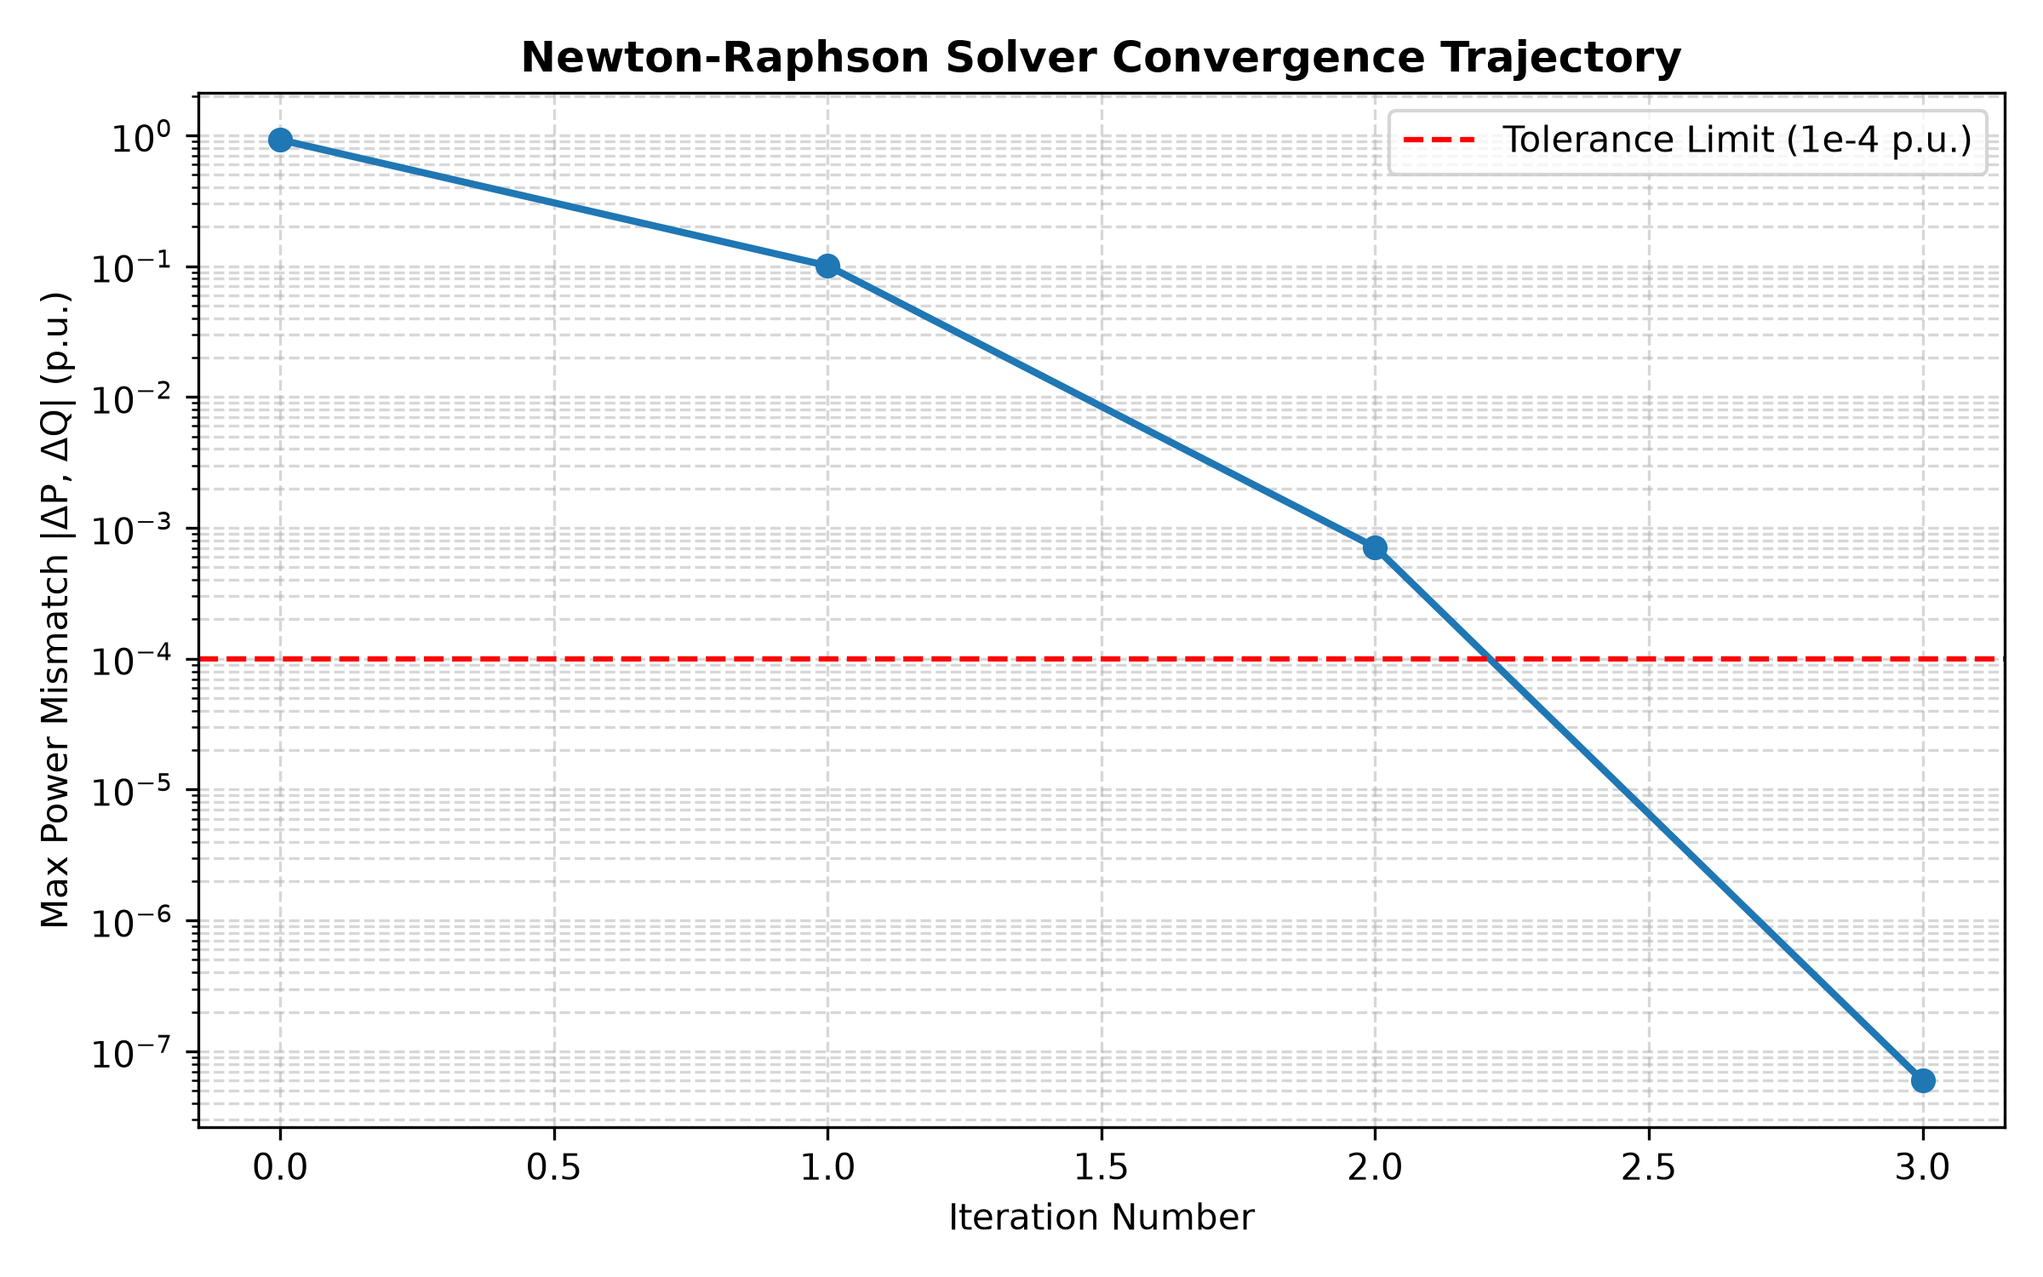
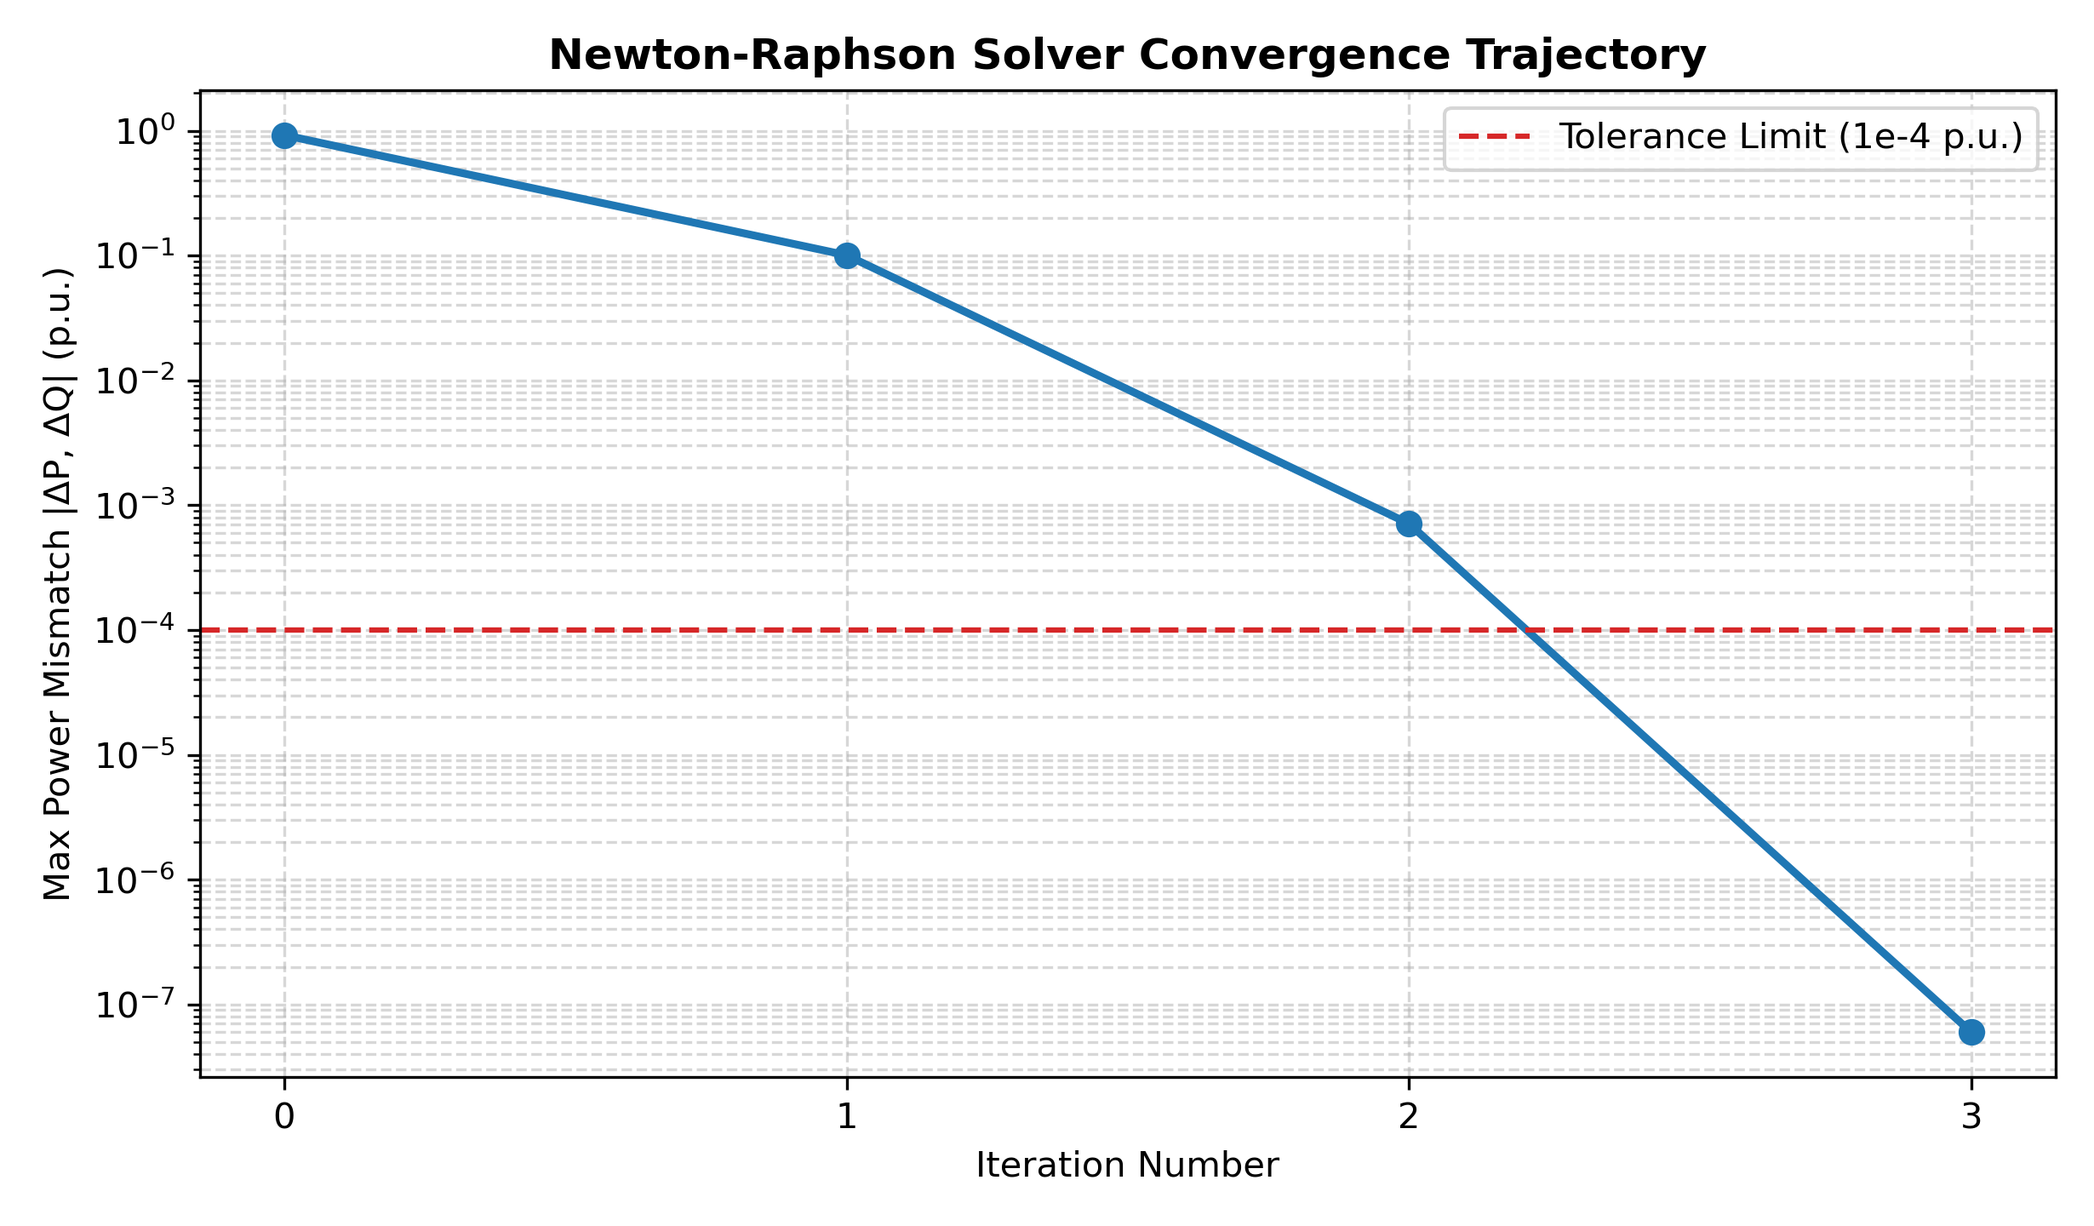
fix(polish): sync N-1 dashboard bounds, plot typography, and README figures (#17) (#18)

Changed region(s): [[0.0, 0.0312, 1.0, 0.9688], [0.375, 0.1875, 0.5625, 0.2812], [0.9688, 0.2188, 1.0, 0.25]]

diff --git a/src/visualizer.py b/src/visualizer.py
@@ -1,6 +1,7 @@
 from pathlib import Path
 
 import matplotlib.pyplot as plt
+from matplotlib.patches import Patch
 from scipy.sparse import csc_matrix, issparse
 
 
@@ -8,9 +9,11 @@ def plot_convergence(history, save_path="results/convergence_curve.png"):
     """Generate a semi-log convergence plot of the maximum power mismatch."""
     Path(save_path).parent.mkdir(parents=True, exist_ok=True)
 
-    plt.figure(figsize=(8, 5))
-    plt.semilogy(range(len(history)), history, "o-", color="#1f77b4", linewidth=2, markersize=6)
-    plt.axhline(y=1e-4, color="r", linestyle="--", label="Tolerance Limit (1e-4 p.u.)")
+    plt.figure(figsize=(8.2, 4.8))
+    steps = list(range(len(history)))
+    plt.semilogy(steps, history, "o-", color="#1f77b4", linewidth=2.2, markersize=6.5)
+    plt.axhline(y=1e-4, color="#d62728", linestyle="--", label="Tolerance Limit (1e-4 p.u.)")
+    plt.xticks(steps)
     plt.title("Newton-Raphson Solver Convergence Trajectory", fontsize=12, fontweight="bold")
     plt.xlabel("Iteration Number", fontsize=10)
     plt.ylabel("Max Power Mismatch |ΔP, ΔQ| (p.u.)", fontsize=10)
@@ -22,34 +25,46 @@ def plot_convergence(history, save_path="results/convergence_curve.png"):
 
 
 def plot_voltage_profile(V, bus_types, save_path="results/voltage_profile.png"):
-    """Generate a bus-voltage magnitude bar chart."""
+    """Generate a bus-voltage magnitude bar chart with adaptive width and headroom."""
     Path(save_path).parent.mkdir(parents=True, exist_ok=True)
 
-    buses = [f"Bus {i + 1}\n({bus_types[i]})" for i in range(len(V))]
+    n = len(V)
+    prefix = "B" if n > 16 else "Bus "
+    buses = [f"{prefix}{i + 1}\n({bus_types[i]})" for i in range(n)]
     colors = [
         "#2ca02c" if bus_type == "Slack" else "#ff7f0e" if bus_type == "PV" else "#1f77b4"
         for bus_type in bus_types
     ]
 
-    plt.figure(figsize=(8, 5))
-    bars = plt.bar(buses, V, color=colors, width=0.4, edgecolor="black", alpha=0.85)
-    plt.axhline(y=1.05, color="r", linestyle=":", label="Upper Voltage Limit (1.05 p.u.)")
-    plt.axhline(y=0.95, color="r", linestyle=":", label="Lower Voltage Limit (0.95 p.u.)")
-    plt.ylim(0.90, 1.10)
+    fig_width = max(8.5, min(16.0, 0.76 * n))
+    plt.figure(figsize=(fig_width, 5.2))
+    bars = plt.bar(buses, V, color=colors, width=0.52, edgecolor="black", alpha=0.88)
+    plt.axhline(
+        y=1.05, color="#d62728", linestyle=":", linewidth=1.4, label="Upper Limit (1.05 p.u.)"
+    )
+    plt.axhline(
+        y=0.95, color="#d62728", linestyle="--", linewidth=1.3, label="Lower Limit (0.95 p.u.)"
+    )
+
+    v_min = min(0.90, float(min(V)) - 0.03)
+    v_max = max(1.118, float(max(V)) + 0.028)
+    plt.ylim(v_min, v_max)
+    plt.xticks(fontsize=8.5 if n > 10 else 9.5)
     plt.title("Bus Voltage Magnitude Profile", fontsize=12, fontweight="bold")
     plt.ylabel("Voltage Magnitude |V| (p.u.)", fontsize=10)
     plt.grid(axis="y", ls="--", alpha=0.5)
-    plt.legend()
+    plt.legend(loc="upper right")
 
+    label_font = 8.5 if n <= 16 else 7.5
     for bar in bars:
         voltage = bar.get_height()
         plt.text(
             bar.get_x() + bar.get_width() / 2.0,
-            voltage + 0.005,
+            voltage + 0.004,
             f"{voltage:.4f}",
             ha="center",
             va="bottom",
-            fontsize=9,
+            fontsize=label_font,
         )
 
     plt.tight_layout()
@@ -65,7 +80,7 @@ def plot_jacobian_sparsity(jacobian, save_path="results/jacobian_sparsity.png"):
     dim = j_csc.shape[0]
     sparsity_pct = 100.0 * (1.0 - j_csc.nnz / (dim * dim)) if dim > 0 else 0.0
 
-    plt.figure(figsize=(6, 6))
+    plt.figure(figsize=(6.2, 6.2))
     plt.spy(j_csc, markersize=4, color="#1f77b4")
     plt.title(
         f"Jacobian Sparsity Pattern ({dim}x{dim}, nnz={j_csc.nnz}, {sparsity_pct:.1f}% zeros)",
@@ -83,17 +98,28 @@ def plot_contingency_ranking(report, save_path="results/contingency_ranking.png"
     """Plot post-contingency severity index ranking for converged N-1 outages."""
     Path(save_path).parent.mkdir(parents=True, exist_ok=True)
 
-    converged_cases = [c for c in report.ranked_cases if c.converged][: int(top_n)]
+    converged_cases = sorted(
+        [c for c in report.ranked_cases if c.converged],
+        key=lambda c: c.severity_index,
+        reverse=True,
+    )[: int(top_n)]
     labels = [f"{c.from_bus}-{c.to_bus}" for c in converged_cases]
     severities = [c.severity_index for c in converged_cases]
     colors = ["#d62728" if c.status == "VIOLATION" else "#1f77b4" for c in converged_cases]
 
-    plt.figure(figsize=(8, 4.8))
+    plt.figure(figsize=(8.4, 4.9))
     if converged_cases:
-        plt.barh(labels[::-1], severities[::-1], color=colors[::-1], edgecolor="black", alpha=0.85)
+        plt.barh(
+            labels[::-1], severities[::-1], color=colors[::-1], edgecolor="black", alpha=0.88
+        )
+        legend_handles = [
+            Patch(facecolor="#d62728", edgecolor="black", label="Limit Violation"),
+            Patch(facecolor="#1f77b4", edgecolor="black", label="Secure Post-Contingency"),
+        ]
+        plt.legend(handles=legend_handles, loc="lower right", fontsize=9)
     plt.title(
         "Top N-1 Contingency Severity Ranking (Converged Outages)",
-        fontsize=11,
+        fontsize=11.5,
         fontweight="bold",
     )
     plt.xlabel("Composite Security Severity Index (PI)", fontsize=10)
@@ -114,7 +140,7 @@ def plot_pv_nose_curve(
     Path(save_path).parent.mkdir(parents=True, exist_ok=True)
     bus_idx = int(bus) - 1
 
-    plt.figure(figsize=(8.2, 5.0))
+    plt.figure(figsize=(8.4, 5.0))
     plt.plot(
         unconstrained_res.total_load_mw,
         unconstrained_res.voltages[:, bus_idx],

diff --git a/src/web_dashboard.py b/src/web_dashboard.py
@@ -9,6 +9,7 @@ from pathlib import Path
 
 import numpy as np
 
+from src import __version__
 from src.contingency_analyzer import run_n1_contingency_analysis
 from src.ieee14_data import (
     get_ieee14_bus_shunts,
@@ -97,7 +98,7 @@ def build_dashboard_site(out_dir: str | Path = "site") -> Path:
     )
     _, loss_p30_s, loss_q30_s = calculate_line_flows(q30_res.V, q30_res.theta, lines30)
 
-    # 3. N-1 Contingency Security Screening (IEEE 14 with Q-limits)
+    # 3. N-1 Contingency Security Screening (IEEE 14 with Q-limits & 0.94-1.06 bounds)
     n1_rep = run_n1_contingency_analysis(
         n14,
         bt14,
@@ -108,6 +109,8 @@ def build_dashboard_site(out_dir: str | Path = "site") -> Path:
         lines14,
         shunts14,
         q_limits=q_lims14_base,
+        v_min=0.94,
+        v_max=1.06,
     )
 
     # 4. P-V Voltage Stability Nose Curves (IEEE 14)
@@ -131,6 +134,7 @@ def build_dashboard_site(out_dir: str | Path = "site") -> Path:
     )
 
     payload = {
+        "version": __version__,
         "cases": {
             "ieee14_base": {
                 "title": "IEEE 14-Bus — Nominal Base Case (1.00x Load)",
@@ -184,6 +188,14 @@ def build_dashboard_site(out_dir: str | Path = "site") -> Path:
                     q30_res.V, q30_res.theta, bt30, q30_res.saturated_buses
                 ),
             },
+        },
+        "contingency_summary": {
+            "total": int(n1_rep.total_contingencies),
+            "secure": int(n1_rep.secure_count),
+            "violated": int(n1_rep.violated_count),
+            "islanded": int(n1_rep.islanded_count),
+            "diverged": int(n1_rep.diverged_count),
+            "v_bounds": "0.94 - 1.06 p.u.",
         },
         "contingencies": [
             {
@@ -250,7 +262,7 @@ def _render_html(payload: dict[str, object]) -> str:
 <head>
   <meta charset="UTF-8" />
   <meta name="viewport" content="width=device-width, initial-scale=1.0" />
-  <title>NR Power-Flow & Grid Security Explorer | v1.0.0</title>
+  <title>NR Power-Flow & Grid Security Explorer | v__VERSION__</title>
   <style>
     :root {
       --bg: #0b1020;
@@ -386,7 +398,7 @@ def _render_html(payload: dict[str, object]) -> str:
 <body>
   <header>
     <div class="badge-row">
-      <span class="pill">nr-powerflow-solver v1.0.0</span>
+      <span class="pill">nr-powerflow-solver v__VERSION__</span>
       <span class="pill">SciPy CSC Sparse Engine</span>
       <span class="pill">MATPOWER case14 &amp; case_ieee30 Verified</span>
       <span class="pill">72 Automated Pytest Checks</span>
@@ -441,15 +453,10 @@ def _render_html(payload: dict[str, object]) -> str:
     </section>
 
     <section id="tab-contingency" class="tab-panel">
-      <div class="kpi-grid">
-        <div class="kpi"><span>Evaluated Outages</span><strong>20 Branches</strong></div>
-        <div class="kpi"><span>Secure Outages</span><strong class="tag-ok">10</strong></div>
-        <div class="kpi"><span>Voltage Violations</span><strong class="tag-warn">8</strong></div>
-        <div class="kpi"><span>Islanded / Collapsed</span><strong class="tag-crit">1 Islanded / 1 Collapse</strong></div>
-      </div>
+      <div id="n1Kpis" class="kpi-grid"></div>
       <div class="split">
         <div class="card">
-          <h3>Top Ranked N-1 Contingencies (IEEE 14-Bus with MATPOWER Q-Limits)</h3>
+          <h3>Top Ranked N-1 Contingencies (IEEE 14-Bus, 0.94&ndash;1.06 p.u., MATPOWER Q-Limits)</h3>
           <table>
             <thead>
               <tr><th>Rank</th><th>Branch</th><th>Corridor</th><th>Status</th><th>Min |V|</th><th>Q-Sat</th><th>Severity</th></tr>
@@ -547,6 +554,13 @@ def _render_html(payload: dict[str, object]) -> str:
     }
 
     function renderContingencies() {
+      const cs = DATA.contingency_summary;
+      document.getElementById("n1Kpis").innerHTML =
+        "<div class='kpi'><span>Evaluated Outages (" + cs.v_bounds + ")</span><strong>" + cs.total + " Branches</strong></div>" +
+        "<div class='kpi'><span>Secure Outages</span><strong class='tag-ok'>" + cs.secure + "</strong></div>" +
+        "<div class='kpi'><span>Limit Violations</span><strong class='tag-warn'>" + cs.violated + "</strong></div>" +
+        "<div class='kpi'><span>Islanded / Collapsed</span><strong class='tag-crit'>" + cs.islanded + " Islanded / " + cs.diverged + " Collapse</strong></div>";
+
       document.getElementById("n1TableBody").innerHTML = DATA.contingencies.map(function (c) {
         const cls = c.status === "SECURE" ? "tag-ok" : (c.status === "VIOLATION" ? "tag-warn" : "tag-crit");
         return "<tr><td>" + c.rank + "</td><td>" + c.branch + "</td><td>" + c.corridor +
@@ -604,7 +618,9 @@ def _render_html(payload: dict[str, object]) -> str:
 </body>
 </html>
 """
-    return template.replace("__DASHBOARD_JSON__", data_json)
+    return template.replace("__VERSION__", str(payload["version"])).replace(
+        "__DASHBOARD_JSON__", data_json
+    )
 
 
 def main(argv: Sequence[str] | None = None) -> int:

diff --git a/main.py b/main.py
@@ -12,7 +12,13 @@ from src.jacobian_builder import build_jacobian_sparse
 from src.line_flow_calculator import calculate_line_flows
 from src.nr_solver import solve_newton_raphson
 from src.q_limit_solver import solve_nr_with_q_limits
-from src.visualizer import plot_convergence, plot_voltage_profile
+from src.visualizer import (
+    plot_contingency_ranking,
+    plot_convergence,
+    plot_jacobian_sparsity,
+    plot_pv_nose_curve,
+    plot_voltage_profile,
+)
 from src.voltage_stability import trace_ieee14_pv_curves
 from src.ybus_builder import build_ybus_sparse
 
@@ -64,7 +70,10 @@ def main():
         v_min=0.94,
         v_max=1.06,
     )
+    plot_contingency_ranking(n1_rep, save_path="results/contingency_ranking.png", top_n=10)
+
     pv_unc, pv_qlim = trace_ieee14_pv_curves(min_step=5e-3)
+    plot_pv_nose_curve(pv_unc, qlim_res=pv_qlim, bus=14, save_path="results/pv_nose_curve.png")
 
     n30, btypes30, v30_init, th30_init, p30, q30, lines30 = get_ieee30_data()
     y30_sparse = build_ybus_sparse(n30, lines30, get_ieee30_bus_shunts())
@@ -81,6 +90,7 @@ def main():
     )
     _, p30_loss, q30_loss = calculate_line_flows(v30_conv, th30_conv, lines30)
     j30_sparse = build_jacobian_sparse(v30_conv, th30_conv, y30_sparse, btypes30)
+    plot_jacobian_sparsity(j30_sparse, save_path="results/jacobian_sparsity.png")
 
     print("=" * 70)
     print("NEWTON-RAPHSON SPARSE CSC LOAD FLOW SOLVER (IEEE 14 & IEEE 30)")

diff --git a/tests/test_web_dashboard.py b/tests/test_web_dashboard.py
@@ -2,6 +2,8 @@
 
 from __future__ import annotations
 
+import json
+import re
 from pathlib import Path
 
 from src.web_dashboard import build_dashboard_site, main
@@ -26,9 +28,17 @@ def test_build_dashboard_site_creates_html_and_all_visual_assets(tmp_path: Path)
 
     html = index_path.read_text(encoding="utf-8")
     assert "Power Systems Sparse Newton-Raphson" in html
-    assert "ieee14_stressed" in html
-    assert "ieee30_stressed" in html
-    assert "COLLAPSE" in html
+    match = re.search(r"const DATA = (\{.*\});", html)
+    assert match is not None
+    payload = json.loads(match.group(1))
+    summary = payload["contingency_summary"]
+    assert summary["total"] == 20
+    assert summary["secure"] == 10
+    assert summary["violated"] == 8
+    assert summary["islanded"] == 1
+    assert summary["diverged"] == 1
+    statuses = {row["status"] for row in payload["contingencies"]}
+    assert {"ISLANDED", "NON_CONVERGED", "VIOLATION", "SECURE"} <= statuses
 
     rc = main(["--out-dir", str(tmp_path / "cli_site")])
     assert rc == 0

diff --git a/tests/test_cli.py b/tests/test_cli.py
@@ -7,7 +7,7 @@ from src.cli import main as cli_main
 
 
 def test_package_exposes_version_and_public_api():
-    assert src.__version__ == "1.0.0"
+    assert src.__version__ == "1.0.1"
     assert callable(src.solve_newton_raphson)
     assert callable(src.solve_nr_with_q_limits)
     assert callable(src.run_n1_contingency_analysis)

diff --git a/src/__init__.py b/src/__init__.py
@@ -8,7 +8,7 @@ from src.q_limit_solver import solve_nr_with_q_limits
 from src.voltage_stability import trace_ieee14_pv_curves, trace_pv_nose_curve
 from src.ybus_builder import build_ybus, build_ybus_sparse
 
-__version__ = "1.0.0"
+__version__ = "1.0.1"
 
 __all__ = [
     "__version__",

diff --git a/README.md b/README.md
@@ -16,7 +16,7 @@ An industrial-grade Python numerical analysis package for **balanced AC power-fl
 ## What Makes This Solver Unique
 
 1. **Direct $O(\text{nnz})$ `scipy.sparse` CSC Engine (`src/ybus_builder.py`, `src/jacobian_builder.py`):**
-   Assembles complex bus-admittance ($Y_{bus}$) and reduced Jacobian ($J$) matrices directly from branch COO triplets into Compressed Sparse Column (`csc_matrix`) storage without allocating $N \times N$ dense arrays, achieving **86.5% Jacobian sparsity on IEEE 30-bus** and **>96% sparsity / ~15x speedup at 100+ buses**.
+   Assembles complex bus-admittance ($Y_{bus}$) and reduced Jacobian ($J$) matrices directly from branch COO triplets into Compressed Sparse Column (`csc_matrix`) storage without allocating $N \times N$ dense arrays, achieving **86.5% Jacobian sparsity on IEEE 30-bus** and **>96% sparsity / ~15–28x speedup at 100–160 buses**.
 2. **PV Generator $Q_{\min} / Q_{\max}$ Reactive-Limit Switching (`src/q_limit_solver.py`):**
    Enforces generator reactive capability bounds (`most_severe` or simultaneous `PV -> PQ` conversion with `PQ -> PV` voltage backoff reversion), accounting for local reactive demand $Q_d$ at generator buses and matching `pandapower` (`enforce_q_lims=True`) to **$< 10^{-6}\text{ p.u.}$**
 3. **Coupled $N-1$ Contingency Security Screening (`src/contingency_analyzer.py`):**
@@ -42,16 +42,23 @@ $$\begin{bmatrix} \Delta P \\ \Delta Q \end{bmatrix} = \begin{bmatrix} J_{11} & 
 
 ## Simulation Artifacts
 
-### Convergence Trajectory & Bus Voltage Profile (IEEE 14-Bus)
+### 1. Quadratic Convergence & Bus Voltage Profile (IEEE 14-Bus)
 ![Convergence Curve](results/convergence_curve.png)
 ![Voltage Profile](results/voltage_profile.png)
+
+### 2. Voltage Collapse $P\text{--}V$ Nose Curve & $N-1$ Contingency Security Ranking (IEEE 14-Bus)
+![P-V Nose Curve](results/pv_nose_curve.png)
+![N-1 Contingency Ranking](results/contingency_ranking.png)
+
+### 3. Reduced Sparse CSC Jacobian Structure (IEEE 30-Bus, 86.5% Zeros)
+![Jacobian Sparsity Pattern](results/jacobian_sparsity.png)
 
 ---
 
 ## Validation Benchmarks
 
 * **IEEE 14-Bus (`src/ieee14_data.py`):** Pinned to MATPOWER `data/case14.m` (100 MVA base). Agrees with `pandapower` 3.x reference to **$< 5 \times 10^{-7}\text{ p.u.}$** on voltages ($P_{loss} = 0.1339\text{ p.u.}$, $Q_{loss} = 0.3012\text{ p.u.}$), and reproduces `enforce_q_lims=True` stressed states (`1.15x` partial & `1.25x` cascade saturation) to **$< 10^{-6}\text{ p.u.}$**
-* **IEEE 30-Bus (`src/ieee30_data.py`):** Pinned to MATPOWER `data/case_ieee30.m` (30 buses, 41 branches, 4 off-nominal tap transformers, 2 shunt capacitor banks). Converges quadratically in 4 iterations ($P_{loss} = 0.1756\text{ p.u.}$, $Q_{loss} = 0.3298\text{ p.u.}$) within **$< 5 \times 10^{-6}\text{ p.u.}$** of reference.
+* **IEEE 30-Bus (`src/ieee30_data.py`):** Pinned to MATPOWER `data/case_ieee30.m` (30 buses, 41 branches, 4 off-nominal tap transformers, 2 shunt capacitor banks). Converges quadratically in 3 iterations ($P_{loss} = 0.1756\text{ p.u.}$, $Q_{loss} = 0.3298\text{ p.u.}$) within **$< 5 \times 10^{-6}\text{ p.u.}$** of reference.
 * **Analytical Two-Bus Bifurcation (`tests/test_voltage_stability.py`):** Reproduces closed-form lossless nose-point transfer $P_{\max} = V_1^2 / (2X)$ and $V_{\text{crit}} = V_1 / \sqrt{2}$ within $0.05\%$.
 
 ---
@@ -62,7 +69,7 @@ $$\begin{bmatrix} \Delta P \\ \Delta Q \end{bmatrix} = \begin{bmatrix} J_{11} & 
 python -m pip install -r requirements.txt
 python -m pip install -e .
 
-# Run full benchmark demonstration
+# Run full benchmark demonstration & regenerate diagnostic figures
 python main.py
 
 # Engineering CLI subcommands
@@ -88,8 +95,9 @@ ruff check .
 ├── main.py                      # Demonstration entry point (IEEE 14 & IEEE 30)
 ├── pyproject.toml               # PEP 621 package, CLI script, Ruff & pytest config
 ├── CITATION.cff                 # Academic BibTeX / APA citation metadata
+├── results/                     # High-DPI benchmark diagnostic figures (5 PNGs)
 ├── src/
-│   ├── __init__.py              # Public package API (v1.0.0)
+│   ├── __init__.py              # Public package API (v1.0.1)
 │   ├── bus_data.py              # 3-bus test network specification
 │   ├── ieee14_data.py           # MATPOWER case14 data + Q-capability curves
 │   ├── ieee30_data.py           # MATPOWER case_ieee30 benchmark + shunts/Q-limits
